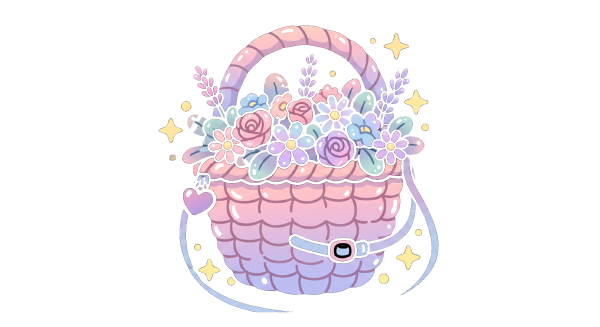
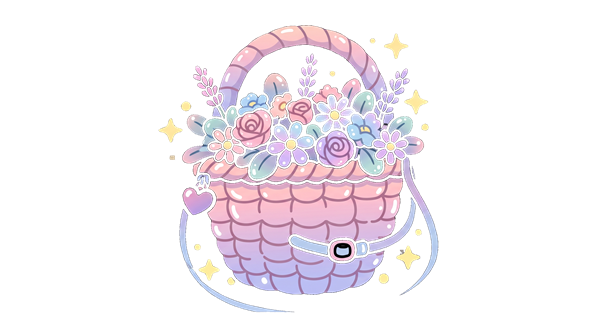
상점 카드 썸네일 통일, 달 조명 빛번짐 정리, 꽃바구니 백 재처리·위치 조정, 시뮬레이터에 기존 아이템 재조정 기능
- 상점 카드: PNG 아이템 65종을 내용물 기준 160px 정사각형 썸네일(lily2_assets/thumbs)로 표시 → 신발 등 위치·크기 균일
- 달빛 사이드테이블: 달 주변 빛 번짐 제거(테이블 상판은 원본 유지)
- 꽃바구니 백: 원본에서 재처리(외곽선 반투명 문제 해결, 잔가지·반짝이 유지), AV_FIT scale 0.82 / ox 37.1 / oy 21.6
- fit_simulator: 기존 아바타 아이템 30종 재조정 목록 추가, 변경분만 내보내기
- lily_tools: ThumbSmart, CombineAlphaAbove, RemoveNeutralPatch, KeepColourfulSmall 추가

diff --git a/fit_simulator.html b/fit_simulator.html
@@ -70,6 +70,7 @@
   <section class="panel">
     <h3 id="listTitle">새 아이템 (체크 = 표시, 클릭 = 선택)</h3>
     <div id="itemList"></div>
+    <div id="existingList"></div>
     <hr style="border:0;border-top:1px solid #eee;margin:10px 0">
     <h3>기존 아이템 참고용 표시</h3>
     <div id="refList"></div>
@@ -118,6 +119,37 @@ const NEW_AVATAR = [
   { id:'av_acc_pompom',        img:'av_acc_pompom.png',        name:'치어 폼폼',       layer:'acc',    emoji:'📣', price:280, desc:'양손에 드는 빨간 치어 폼폼' },
   { id:'av_shoes_flowershoes', img:'av_shoes_flower2.png',     name:'꽃신',            layer:'shoes',  emoji:'🌺', price:330, desc:'한복에 신는 예쁜 꽃신' },
 ];
+// 기존 아바타 아이템 재조정용 (대시보드 현재 값이 기본값)
+const EXISTING_AVATAR = [{"id":"av_hair_bow","img":"av_hair_bow.png","name":"핑크 리본 헤어","emoji":"🎀","layer":"hair","fit":{"scale":0.443,"scaleX":1,"ox":24.8,"oy":-31.3}},
+  {"id":"av_hair_pink","img":"av_hair_band.png","name":"분홍 트윈테일","emoji":"💗","layer":"hair","fit":{"scale":0.803,"scaleX":1.185,"ox":0,"oy":-10.3}},
+  {"id":"av_hair_star","img":"av_hair_star.png","name":"별 핀 헤어","emoji":"⭐","layer":"hair","fit":{"scale":0.694,"scaleX":1,"ox":22.7,"oy":-33.2}},
+  {"id":"av_hair_flower","img":"av_hair_flower.png","name":"꽃 화환 헤어","emoji":"🌸","layer":"hair","fit":{"scale":0.735,"scaleX":1,"ox":-0.2,"oy":-13.59}},
+  {"id":"av_outfit_princess","img":"av_outfit_princess.png","name":"프린세스 드레스","emoji":"👸","layer":"outfit","fit":{"scale":0.953,"scaleX":1,"ox":-0.2,"oy":13.1}},
+  {"id":"av_outfit_rainbow","img":"av_outfit_rainbow.png","name":"무지개 드레스","emoji":"🌈","layer":"outfit","fit":{"scale":1.102,"scaleX":1,"ox":0,"oy":1.8}},
+  {"id":"av_outfit_galaxy","img":"av_outfit_galaxy.png","name":"갤럭시 드레스","emoji":"🌌","layer":"outfit","fit":{"scale":0.9,"scaleX":1.3,"ox":0,"oy":-0.7}},
+  {"id":"av_outfit_angel","img":"av_outfit_angel.png","name":"천사 드레스","emoji":"🤍","layer":"outfit","fit":{"scale":1.0485,"scaleX":1,"ox":0,"oy":1.22}},
+  {"id":"av_outfit_witch","img":"av_outfit_witch.png","name":"마녀 드레스","emoji":"🧙","layer":"outfit","fit":{"scale":0.9,"scaleX":1.04,"ox":0.6,"oy":-0.7}},
+  {"id":"av_outfit_star","img":"av_outfit_star.png","name":"별빛 드레스","emoji":"🌟","layer":"outfit","fit":{"scale":0.9,"scaleX":1,"ox":0,"oy":13.1}},
+  {"id":"av_outfit_rose","img":"av_outfit_rose.png","name":"장미 드레스","emoji":"🌹","layer":"outfit","fit":{"scale":0.9,"scaleX":1.155,"ox":0,"oy":0.2}},
+  {"id":"av_outfit_ballet","img":"av_outfit_ballet.png","name":"화려한 발레복","emoji":"🩰","layer":"outfit","fit":{"scale":1.112,"scaleX":1,"ox":-0.2,"oy":1.2}},
+  {"id":"av_outfit_sporty","img":"av_outfit_sporty.png","name":"화려한 운동복","emoji":"🎽","layer":"outfit","fit":{"scale":1.137,"scaleX":1,"ox":0,"oy":2.2}},
+  {"id":"av_outfit_school1","img":"av_outfit_school1.png","name":"대광초 교복 춘추복","emoji":"🎒","layer":"outfit","fit":{"scale":1.003,"scaleX":1,"ox":0,"oy":0.7}},
+  {"id":"av_outfit_school2","img":"av_outfit_school2.png","name":"대광초 생활복","emoji":"🎒","layer":"outfit","fit":{"scale":0.995,"scaleX":1.05,"ox":0.2,"oy":-0.2}},
+  {"id":"av_acc_tiara","img":"av_acc_tiara.png","name":"골드 티아라","emoji":"👑","layer":"acc","fit":{"scale":0.489,"scaleX":1,"ox":-0.5,"oy":-41.3}},
+  {"id":"av_acc_necklace","img":"av_acc_necklace.png","name":"별 목걸이","emoji":"💫","layer":"acc","fit":{"scale":0.326,"scaleX":1,"ox":0,"oy":-1.7}},
+  {"id":"av_acc_glasses","img":"av_acc_glasses.png","name":"동그란 안경","emoji":"👓","layer":"acc","fit":{"scale":0.56,"scaleX":1,"ox":0.6,"oy":-22.2}},
+  {"id":"av_acc_ribbon","img":"av_acc_ribbon.png","name":"리본 목걸이","emoji":"💝","layer":"acc","fit":{"scale":0.242,"scaleX":1,"ox":0.4,"oy":-0.2}},
+  {"id":"av_shoes_star","img":"av_shoes_star.png","name":"별빛 부츠","emoji":"⭐","layer":"shoes","fit":{"scale":0.602,"scaleX":1,"ox":-0.1,"oy":34.2}},
+  {"id":"av_shoes_rainbow","img":"av_shoes_rainbow.png","name":"무지개 스니커즈","emoji":"🌈","layer":"shoes","fit":{"scale":0.644,"scaleX":1,"ox":-0.1,"oy":33.2}},
+  {"id":"av_shoes_flower","img":"av_shoes_ribbon_extra.png","name":"꽃 샌들","emoji":"🌸","layer":"shoes","fit":{"scale":1,"scaleX":1,"ox":0,"oy":0}},
+  {"id":"av_shoes_rainbow2","img":"av_shoes_rainbow2.png","name":"무지개 샌들","emoji":"🌈","layer":"shoes","fit":{"scale":0.97,"scaleX":1,"ox":0,"oy":2.2}},
+  {"id":"av_shoes_rose","img":"av_shoes_rose.png","name":"장미 구두","emoji":"🌹","layer":"shoes","fit":{"scale":1.012,"scaleX":1,"ox":0,"oy":0.2}},
+  {"id":"av_shoes_star2","img":"av_shoes_star2.png","name":"별무늬 부츠","emoji":"⭐","layer":"shoes","fit":{"scale":1.02,"scaleX":1,"ox":0,"oy":-0.7}},
+  {"id":"av_shoes_blackmaryjane","img":"av_shoes_blackmaryjane.png","name":"검정 메리제인","emoji":"👞","layer":"shoes","fit":{"scale":0.6,"scaleX":1,"ox":0,"oy":34}},
+  {"id":"av_acc_shellpin","img":"av_acc_shellpin.png","name":"조개 핀","emoji":"🐚","layer":"acc","fit":{"scale":1.145,"scaleX":1.165,"ox":-10.4,"oy":3.1}},
+  {"id":"av_acc_witchhat","img":"av_acc_witchhat.png","name":"마녀 모자","emoji":"🎩","layer":"acc","fit":{"scale":0.769,"scaleX":1,"ox":9.6,"oy":-21.3}},
+  {"id":"av_bag_star","img":"av_bag_star.png","name":"별 미니백","emoji":"⭐","layer":"acc","fit":{"scale":0.836,"scaleX":1,"ox":36.7,"oy":23.2}},
+  {"id":"av_bag_flower","img":"av_bag_flower.png","name":"꽃바구니 백","emoji":"🧺","layer":"acc","fit":{"scale":0.4,"scaleX":1,"ox":22,"oy":15}}];
 // 기존 아이템(참고용, 대시보드 값 그대로)
 const REF_AVATAR = [
   { id:'av_outfit_princess', img:'av_outfit_princess.png', name:'프린세스 드레스', layer:'outfit', fit:{scale:0.953, ox:-0.20, oy:13.10} },
@@ -155,6 +187,7 @@ let refVisible = state.refVisible || {};
 
 function defaultsFor(id) {
   if (NEW_FURN.find(f => f.id === id)) { const i = NEW_FURN.findIndex(f => f.id === id); const f = NEW_FURN[i]; return { w: 110, zone: f.zone, x: 4 + (i % 5) * 19, y: f.zone === 'wall' ? 6 + Math.floor(i / 5) * 14 : 52 + Math.floor(i / 5) * 18 }; }
+  const ex = EXISTING_AVATAR.find(e => e.id === id); if (ex) return { ...ex.fit };
   return { scale: 1, scaleX: 1, ox: 0, oy: 0 };
 }
 function fitOf(id) { if (!state.fit[id]) state.fit[id] = defaultsFor(id); return state.fit[id]; }
@@ -181,12 +214,20 @@ function renderList() {
       <img src="${ASSETS}${it.img || it.file}" alt="">
       <div class="nm">${it.emoji || ''} ${it.name}<small>${it.id}${it.layer ? ' · ' + it.layer : ''}</small></div>
     </div>`).join('');
+  const exBox = document.getElementById('existingList');
+  exBox.innerHTML = tab !== 'avatar' ? '' : '<h3 style="margin-top:12px">기존 아바타 아이템 재조정 (클릭=선택·표시)</h3>' + EXISTING_AVATAR.map(it => `
+    <div class="item-row ${selected === it.id ? 'selected' : ''}" onclick="selectItem('${it.id}')">
+      <input type="checkbox" ${visible[it.id] ? 'checked' : ''} onclick="event.stopPropagation();toggleVisible('${it.id}', this.checked)">
+      <img src="${ASSETS}${it.img}" alt="">
+      <div class="nm">${it.emoji} ${it.name}<small>${it.id} · ${it.layer}${JSON.stringify(fitOf(it.id)) !== JSON.stringify(it.fit) ? ' · <b style=color:#e0407a>수정됨</b>' : ''}</small></div>
+    </div>`).join('');
   document.getElementById('refList').innerHTML = refs.map(it => `
     <label class="ref-toggle"><input type="checkbox" ${refVisible[it.id] ? 'checked' : ''} onchange="refVisible['${it.id}']=this.checked;renderAll()"> ${it.name}</label>`).join('');
 }
 function exclusive(id) {
-  const it = NEW_AVATAR.find(n => n.id === id); if (!it || !['outfit','hair'].includes(it.layer)) return;
-  NEW_AVATAR.forEach(n => { if (n.id !== id && n.layer === it.layer) visible[n.id] = false; });
+  const all = [...NEW_AVATAR, ...EXISTING_AVATAR];
+  const it = all.find(n => n.id === id); if (!it || !['outfit','hair','shoes'].includes(it.layer)) return;
+  all.forEach(n => { if (n.id !== id && n.layer === it.layer) visible[n.id] = false; });
 }
 function toggleVisible(id, on) { visible[id] = on; if (on) exclusive(id); renderAll(); }
 function selectItem(id) { selected = id; visible[id] = true; exclusive(id); renderAll(); }
@@ -202,6 +243,7 @@ function renderStage() {
     let layers = [];
     REF_AVATAR.forEach(r => { if (refVisible[r.id]) layers.push({ id: r.id, img: r.img, layer: r.layer, fit: r.fit, ref: true }); });
     NEW_AVATAR.forEach(n => { if (visible[n.id] !== false) layers.push({ id: n.id, img: n.img, layer: n.layer, fit: fitOf(n.id), ref: false }); });
+    EXISTING_AVATAR.forEach(n => { if (visible[n.id]) layers.push({ id: n.id, img: n.img, layer: n.layer, fit: fitOf(n.id), ref: false }); });
     layers.sort((a, b) => LAYER_ORDER[a.layer] - LAYER_ORDER[b.layer]);
     st.innerHTML = `<img src="${ASSETS}lily_final.png" alt="">` +
       layers.map(l => `<img src="${ASSETS}${l.img}" class="${selected === l.id ? 'sel-outline' : ''}" style="${avStyle(l.fit)}${l.ref ? 'opacity:.85;' : ''}" alt="">`).join('');
@@ -229,7 +271,7 @@ function ctrlRow(key, label, min, max, step) {
 function renderCtrls() {
   const title = document.getElementById('ctrlTitle'); const box = document.getElementById('ctrls');
   if (!selected) { title.textContent = '선택된 아이템 없음'; box.innerHTML = '<p class="muted">왼쪽 목록에서 아이템을 클릭하세요.</p>'; return; }
-  const item = [...NEW_AVATAR, ...NEW_FURN].find(i => i.id === selected);
+  const item = [...NEW_AVATAR, ...NEW_FURN, ...EXISTING_AVATAR].find(i => i.id === selected);
   title.textContent = `${item.emoji} ${item.name}`;
   let html = '';
   if (tab === 'avatar') {
@@ -250,7 +292,7 @@ function renderCtrls() {
     <div class="price-row">설명 <input class="wide" value="${metaOf(item).desc}" onchange="setMeta('desc', this.value)"></div>`;
   box.innerHTML = html;
 }
-function metaOf(item) { state.meta = state.meta || {}; const m = state.meta[item.id] || {}; return { emoji: m.emoji || item.emoji, price: m.price || item.price, name: m.name || item.name, desc: m.desc || item.desc }; }
+function metaOf(item) { state.meta = state.meta || {}; const m = state.meta[item.id] || {}; return { emoji: m.emoji || item.emoji || '', price: m.price || item.price || 0, name: m.name || item.name, desc: m.desc || item.desc || '' }; }
 function setMeta(k, v) { state.meta = state.meta || {}; state.meta[selected] = state.meta[selected] || {}; state.meta[selected][k] = k === 'price' ? Number(v) : v; renderAll(); }
 function setVal(key, v) {
   const f = fitOf(selected);
@@ -325,6 +367,8 @@ function renderExport() {
   const lines = [];
   lines.push('// ===== AV_FIT 추가 =====');
   NEW_AVATAR.forEach(n => { const f = fitOf(n.id); lines.push(`  ${n.id}: { img:'${n.img}', scale:${f.scale.toFixed(3)}, scaleX:${(f.scaleX ?? 1).toFixed(3)}, ox:${f.ox.toFixed(2)}, oy:${f.oy.toFixed(2)} },`); });
+  const changed = EXISTING_AVATAR.filter(n => JSON.stringify(fitOf(n.id)) !== JSON.stringify(n.fit));
+  if (changed.length) { lines.push('// ===== AV_FIT 수정(기존 아이템) ====='); changed.forEach(n => { const f = fitOf(n.id); lines.push(`  ${n.id}: { img:'${n.img}', scale:${f.scale.toFixed(3)}, scaleX:${(f.scaleX ?? 1).toFixed(3)}, ox:${f.ox.toFixed(2)}, oy:${f.oy.toFixed(2)} },`); }); }
   lines.push('// ===== PNG_FURNITURE 추가 =====');
   NEW_FURN.forEach(n => { const f = fitOf(n.id); lines.push(`  ${n.id}: { file:'${n.file}', w:${f.w} },  // zone: ${f.zone}`); });
   lines.push('// ===== SHOP_ITEMS 추가 =====');

diff --git a/joy.html b/joy.html
@@ -1165,7 +1165,7 @@ const AV_FIT = {
   av_acc_shellpin:   { img:'av_acc_shellpin.png',   scale:1.145, scaleX:1.165, ox:-10.40, oy:3.10 },
   av_acc_witchhat:   { img:'av_acc_witchhat.png',   scale:0.769, scaleX:1.000, ox:9.60, oy:-21.30 },
   av_bag_star:   { img:'av_bag_star.png',   scale:0.836, ox:36.70, oy:23.20 },
-  av_bag_flower: { img:'av_bag_flower.png', scale:0.4,   ox:22,    oy:15 },
+  av_bag_flower: { img:'av_bag_flower.png', scale:0.820, scaleX:1.000, ox:37.10, oy:21.60 },
   av_outfit_cheer:      { img:'av_outfit_cheer.png',      scale:0.780, scaleX:1.000, ox:-0.50, oy:9.60 },
   av_outfit_hanbok:     { img:'av_outfit_hanbok.png',     scale:0.930, scaleX:1.000, ox:0.00, oy:-0.20 },
   av_hair_hanbokband:   { img:'av_hair_hanbokband.png',   scale:0.690, scaleX:1.000, ox:0.20, oy:-20.70 },
@@ -2206,6 +2206,13 @@ function renderPointsAndRoom() {
   renderRoom();
 }
 
+/* ── 상점 카드 썸네일: PNG 아이템은 내용물만 잘라 정사각형 가운데 정렬한 thumbs/ 이미지 사용 ── */
+const SHOP_THUMB_IDS = new Set(["av_hair_bow","av_hair_pink","av_hair_star","av_hair_flower","av_outfit_princess","av_outfit_rainbow","av_outfit_galaxy","av_outfit_angel","av_outfit_witch","av_outfit_star","av_outfit_rose","av_outfit_ballet","av_outfit_sporty","av_outfit_school1","av_outfit_school2","av_acc_tiara","av_acc_necklace","av_acc_glasses","av_acc_ribbon","av_shoes_star","av_shoes_rainbow","av_shoes_flower","av_shoes_rainbow2","av_shoes_rose","av_shoes_star2","av_shoes_blackmaryjane","av_acc_shellpin","av_acc_witchhat","av_bag_star","av_bag_flower","av_outfit_cheer","av_outfit_hanbok","av_hair_hanbokband","av_hair_redribbon","av_acc_pompom","av_shoes_flowershoes","furn_canopybed","furn_clock","furn_pastelpiano","furn_teatable","furn_flowerstand","furn_closet","furn_springbookshelf","furn_springbox","furn_springtable","furn_starbed","furn_stargarland","furn_starsidetable","furn_stardrawer","furn_starposter","furn_wallshelf","pet_cat","pet_rabbit","pet_hamster","pet_butterfly","pet_fox","pet_unicorn","pet_frog","pet_dragon","pet_penguin","food_cake","food_cupcake","food_macaron","food_parfait","food_icecream"]);
+function shopIcon(item) {
+  if (SHOP_THUMB_IDS.has(item.id)) return `<img src="${AV_ASSETS}thumbs/${item.id}.png" style="width:80px;height:80px;object-fit:contain;" alt="">`;
+  return customItemIcon(item.id) || item.emoji;
+}
+
 /* ── SHOP RENDER ── */
 function renderShop() {
   // Tabs
@@ -2238,7 +2245,7 @@ function renderShop() {
       }
     }
     return `<div class="shop-item-card ${owned ? 'owned' : ''} ${!owned && !canAfford ? 'unaffordable' : ''}">
-      <div class="shop-item-emoji">${customItemIcon(item.id) || item.emoji}</div>
+      <div class="shop-item-emoji">${shopIcon(item)}</div>
       <div class="shop-item-name">${item.name}</div>
       <div class="shop-item-desc">${item.desc}</div>
       <div class="shop-item-price">💰 ${item.price} pt</div>

diff --git a/lily.html b/lily.html
@@ -1165,7 +1165,7 @@ const AV_FIT = {
   av_acc_shellpin:   { img:'av_acc_shellpin.png',   scale:1.145, scaleX:1.165, ox:-10.40, oy:3.10 },
   av_acc_witchhat:   { img:'av_acc_witchhat.png',   scale:0.769, scaleX:1.000, ox:9.60, oy:-21.30 },
   av_bag_star:   { img:'av_bag_star.png',   scale:0.836, ox:36.70, oy:23.20 },
-  av_bag_flower: { img:'av_bag_flower.png', scale:0.4,   ox:22,    oy:15 },
+  av_bag_flower: { img:'av_bag_flower.png', scale:0.820, scaleX:1.000, ox:37.10, oy:21.60 },
   av_outfit_cheer:      { img:'av_outfit_cheer.png',      scale:0.780, scaleX:1.000, ox:-0.50, oy:9.60 },
   av_outfit_hanbok:     { img:'av_outfit_hanbok.png',     scale:0.930, scaleX:1.000, ox:0.00, oy:-0.20 },
   av_hair_hanbokband:   { img:'av_hair_hanbokband.png',   scale:0.690, scaleX:1.000, ox:0.20, oy:-20.70 },
@@ -2206,6 +2206,13 @@ function renderPointsAndRoom() {
   renderRoom();
 }
 
+/* ── 상점 카드 썸네일: PNG 아이템은 내용물만 잘라 정사각형 가운데 정렬한 thumbs/ 이미지 사용 ── */
+const SHOP_THUMB_IDS = new Set(["av_hair_bow","av_hair_pink","av_hair_star","av_hair_flower","av_outfit_princess","av_outfit_rainbow","av_outfit_galaxy","av_outfit_angel","av_outfit_witch","av_outfit_star","av_outfit_rose","av_outfit_ballet","av_outfit_sporty","av_outfit_school1","av_outfit_school2","av_acc_tiara","av_acc_necklace","av_acc_glasses","av_acc_ribbon","av_shoes_star","av_shoes_rainbow","av_shoes_flower","av_shoes_rainbow2","av_shoes_rose","av_shoes_star2","av_shoes_blackmaryjane","av_acc_shellpin","av_acc_witchhat","av_bag_star","av_bag_flower","av_outfit_cheer","av_outfit_hanbok","av_hair_hanbokband","av_hair_redribbon","av_acc_pompom","av_shoes_flowershoes","furn_canopybed","furn_clock","furn_pastelpiano","furn_teatable","furn_flowerstand","furn_closet","furn_springbookshelf","furn_springbox","furn_springtable","furn_starbed","furn_stargarland","furn_starsidetable","furn_stardrawer","furn_starposter","furn_wallshelf","pet_cat","pet_rabbit","pet_hamster","pet_butterfly","pet_fox","pet_unicorn","pet_frog","pet_dragon","pet_penguin","food_cake","food_cupcake","food_macaron","food_parfait","food_icecream"]);
+function shopIcon(item) {
+  if (SHOP_THUMB_IDS.has(item.id)) return `<img src="${AV_ASSETS}thumbs/${item.id}.png" style="width:80px;height:80px;object-fit:contain;" alt="">`;
+  return customItemIcon(item.id) || item.emoji;
+}
+
 /* ── SHOP RENDER ── */
 function renderShop() {
   // Tabs
@@ -2238,7 +2245,7 @@ function renderShop() {
       }
     }
     return `<div class="shop-item-card ${owned ? 'owned' : ''} ${!owned && !canAfford ? 'unaffordable' : ''}">
-      <div class="shop-item-emoji">${customItemIcon(item.id) || item.emoji}</div>
+      <div class="shop-item-emoji">${shopIcon(item)}</div>
       <div class="shop-item-name">${item.name}</div>
       <div class="shop-item-desc">${item.desc}</div>
       <div class="shop-item-price">💰 ${item.price} pt</div>

diff --git a/lily2.html b/lily2.html
@@ -1165,7 +1165,7 @@ const AV_FIT = {
   av_acc_shellpin:   { img:'av_acc_shellpin.png',   scale:1.145, scaleX:1.165, ox:-10.40, oy:3.10 },
   av_acc_witchhat:   { img:'av_acc_witchhat.png',   scale:0.769, scaleX:1.000, ox:9.60, oy:-21.30 },
   av_bag_star:   { img:'av_bag_star.png',   scale:0.836, ox:36.70, oy:23.20 },
-  av_bag_flower: { img:'av_bag_flower.png', scale:0.4,   ox:22,    oy:15 },
+  av_bag_flower: { img:'av_bag_flower.png', scale:0.820, scaleX:1.000, ox:37.10, oy:21.60 },
   av_outfit_cheer:      { img:'av_outfit_cheer.png',      scale:0.780, scaleX:1.000, ox:-0.50, oy:9.60 },
   av_outfit_hanbok:     { img:'av_outfit_hanbok.png',     scale:0.930, scaleX:1.000, ox:0.00, oy:-0.20 },
   av_hair_hanbokband:   { img:'av_hair_hanbokband.png',   scale:0.690, scaleX:1.000, ox:0.20, oy:-20.70 },
@@ -2206,6 +2206,13 @@ function renderPointsAndRoom() {
   renderRoom();
 }
 
+/* ── 상점 카드 썸네일: PNG 아이템은 내용물만 잘라 정사각형 가운데 정렬한 thumbs/ 이미지 사용 ── */
+const SHOP_THUMB_IDS = new Set(["av_hair_bow","av_hair_pink","av_hair_star","av_hair_flower","av_outfit_princess","av_outfit_rainbow","av_outfit_galaxy","av_outfit_angel","av_outfit_witch","av_outfit_star","av_outfit_rose","av_outfit_ballet","av_outfit_sporty","av_outfit_school1","av_outfit_school2","av_acc_tiara","av_acc_necklace","av_acc_glasses","av_acc_ribbon","av_shoes_star","av_shoes_rainbow","av_shoes_flower","av_shoes_rainbow2","av_shoes_rose","av_shoes_star2","av_shoes_blackmaryjane","av_acc_shellpin","av_acc_witchhat","av_bag_star","av_bag_flower","av_outfit_cheer","av_outfit_hanbok","av_hair_hanbokband","av_hair_redribbon","av_acc_pompom","av_shoes_flowershoes","furn_canopybed","furn_clock","furn_pastelpiano","furn_teatable","furn_flowerstand","furn_closet","furn_springbookshelf","furn_springbox","furn_springtable","furn_starbed","furn_stargarland","furn_starsidetable","furn_stardrawer","furn_starposter","furn_wallshelf","pet_cat","pet_rabbit","pet_hamster","pet_butterfly","pet_fox","pet_unicorn","pet_frog","pet_dragon","pet_penguin","food_cake","food_cupcake","food_macaron","food_parfait","food_icecream"]);
+function shopIcon(item) {
+  if (SHOP_THUMB_IDS.has(item.id)) return `<img src="${AV_ASSETS}thumbs/${item.id}.png" style="width:80px;height:80px;object-fit:contain;" alt="">`;
+  return customItemIcon(item.id) || item.emoji;
+}
+
 /* ── SHOP RENDER ── */
 function renderShop() {
   // Tabs
@@ -2238,7 +2245,7 @@ function renderShop() {
       }
     }
     return `<div class="shop-item-card ${owned ? 'owned' : ''} ${!owned && !canAfford ? 'unaffordable' : ''}">
-      <div class="shop-item-emoji">${customItemIcon(item.id) || item.emoji}</div>
+      <div class="shop-item-emoji">${shopIcon(item)}</div>
       <div class="shop-item-name">${item.name}</div>
       <div class="shop-item-desc">${item.desc}</div>
       <div class="shop-item-price">💰 ${item.price} pt</div>

diff --git a/lily_tools/ImgTool.cs b/lily_tools/ImgTool.cs
@@ -7,6 +7,9 @@ using System.Runtime.InteropServices;
 
 public static class ImgTool
 {
+    // When true, small components are dropped only if they are grey-ish (checker remnants); colourful bits are kept.
+    public static bool KeepColourfulSmall = false;
+
     // Load into premultiplied-free ARGB byte array (B,G,R,A)
     static byte[] GetBytes(Bitmap bmp, out int stride)
     {
@@ -152,11 +155,24 @@ public static class ImgTool
                 }
             }
             int largest = 0; foreach (var a in areas) if (a > largest) largest = a;
+            // per-component mean chroma (to keep small but colourful pieces such as sparkles / sprig leaves)
+            var chromaSum = new long[nc + 1];
+            for (int s = 0; s < w * h; s++)
+            {
+                if (isBg[s]) continue;
+                int i = (s / w) * stride + (s % w) * 4; int b = p[i], g = p[i + 1], r = p[i + 2];
+                chromaSum[comp[s]] += Math.Max(r, Math.Max(g, b)) - Math.Min(r, Math.Min(g, b));
+            }
             int dropped = 0;
             for (int s = 0; s < w * h; s++)
             {
                 if (isBg[s]) continue;
-                if (areas[comp[s]] < largest * minCompFrac) { isBg[s] = true; dropped++; }
+                int k = comp[s];
+                if (areas[k] < largest * minCompFrac)
+                {
+                    double meanChroma = (double)chromaSum[k] / areas[k];
+                    if (!KeepColourfulSmall || meanChroma <= 16 || areas[k] < largest * 0.0003) { isBg[s] = true; dropped++; }
+                }
             }
 
             // apply alpha + soften edge: pixels adjacent to bg get partial alpha based on palette distance
@@ -273,6 +289,130 @@ public static class ImgTool
             }
             using (var outBmp = FromBytes(p, w, h, stride)) outBmp.Save(dst, ImageFormat.Png);
             return string.Format("gray px {0}, comps {1}, patch bbox x{2}-{3} y{4}-{5} (area {6}), cleared {7}px", count, nc, x0, x1, y0, y1, areas[best], cleared);
+        }
+    }
+
+    // Combine: above yCut use alpha from maskPng (aggressively cleaned), below keep origPng. Both must be same size.
+    // Then crop to content (+padPct) and downscale to maxSide.
+    public static string CombineAlphaAbove(string origPng, string maskPng, string dst, int yCut, int padPct, int maxSide) { return CombineAlphaAbove(origPng, maskPng, dst, yCut, padPct, maxSide, 0); }
+    // protectBlueMin > 0: never clear a pixel whose original colour is blue-ish (B - max(R,G) >= protectBlueMin), e.g. the table.
+    public static string CombineAlphaAbove(string origPng, string maskPng, string dst, int yCut, int padPct, int maxSide, int protectBlueMin)
+    {
+        using (var o = new Bitmap(origPng)) using (var m = new Bitmap(maskPng))
+        {
+            if (o.Width != m.Width || o.Height != m.Height) return "size mismatch " + o.Width + "x" + o.Height + " vs " + m.Width + "x" + m.Height;
+            int so, sm; var po = GetBytes(o, out so); var pm = GetBytes(m, out sm);
+            int w = o.Width, h = o.Height; int changed = 0;
+            for (int y = 0; y < Math.Min(yCut, h); y++) for (int x = 0; x < w; x++)
+            {
+                int io = y * so + x * 4, im = y * sm + x * 4;
+                if (protectBlueMin > 0) { int b = po[io], g = po[io + 1], r = po[io + 2]; if (b - Math.Max(r, g) >= protectBlueMin) continue; }
+                if (po[io + 3] != 0 && pm[im + 3] == 0) { po[io + 3] = 0; changed++; }
+                else if (pm[im + 3] < po[io + 3]) po[io + 3] = pm[im + 3];
+            }
+            int minX = w, maxX = -1, minY = h, maxY = -1;
+            for (int y = 0; y < h; y++) for (int x = 0; x < w; x++)
+                if (po[y * so + x * 4 + 3] > 20) { if (x < minX) minX = x; if (x > maxX) maxX = x; if (y < minY) minY = y; if (y > maxY) maxY = y; }
+            int padX = (maxX - minX + 1) * padPct / 100, padY = (maxY - minY + 1) * padPct / 100;
+            var srcRect = new Rectangle(Math.Max(0, minX - padX), Math.Max(0, minY - padY), 0, 0);
+            srcRect.Width = Math.Min(w - 1, maxX + padX) - srcRect.X + 1; srcRect.Height = Math.Min(h - 1, maxY + padY) - srcRect.Y + 1;
+            double sc = Math.Min(1.0, (double)maxSide / Math.Max(srcRect.Width, srcRect.Height));
+            int tw = Math.Max(1, (int)Math.Round(srcRect.Width * sc)), th = Math.Max(1, (int)Math.Round(srcRect.Height * sc));
+            using (var full = FromBytes(po, w, h, so))
+            using (var outBmp = new Bitmap(tw, th, PixelFormat.Format32bppArgb))
+            using (var g = Graphics.FromImage(outBmp))
+            {
+                g.Clear(Color.Transparent); g.InterpolationMode = InterpolationMode.HighQualityBicubic; g.PixelOffsetMode = PixelOffsetMode.HighQuality; g.CompositingMode = CompositingMode.SourceCopy;
+                using (var ia = new ImageAttributes()) { ia.SetWrapMode(WrapMode.TileFlipXY);
+                    g.DrawImage(full, new Rectangle(0, 0, tw, th), srcRect.X, srcRect.Y, srcRect.Width, srcRect.Height, GraphicsUnit.Pixel, ia); }
+                outBmp.Save(dst, ImageFormat.Png);
+            }
+            return string.Format("cleared {0}px above y={1}; out {2}x{3}", changed, yCut, tw, th);
+        }
+    }
+
+    // Thumbnail using bbox of significant connected components only (ignores stray specks).
+    // Components with area < minFrac * largest are ignored when measuring the box (pairs like shoes are kept).
+    public static string ThumbSmart(string src, string dst, int size, int padPct, int alphaMin, double minFrac)
+    {
+        using (var bmp = new Bitmap(src))
+        {
+            int stride; var p = GetBytes(bmp, out stride);
+            int w = bmp.Width, h = bmp.Height;
+            var comp = new int[w * h]; int nc = 0; var areas = new List<int> { 0 }; var boxes = new List<int[]> { null };
+            int[] dx = { 1, -1, 0, 0, 1, 1, -1, -1 }, dy = { 0, 0, 1, -1, 1, -1, 1, -1 };
+            for (int s = 0; s < w * h; s++)
+            {
+                if (comp[s] != 0 || p[(s / w) * stride + (s % w) * 4 + 3] <= alphaMin) continue;
+                nc++; areas.Add(0); var bx = new[] { w, h, -1, -1 }; boxes.Add(bx);
+                var st = new Stack<int>(); st.Push(s); comp[s] = nc;
+                while (st.Count > 0)
+                {
+                    int idx = st.Pop(); areas[nc]++; int cx = idx % w, cy = idx / w;
+                    if (cx < bx[0]) bx[0] = cx; if (cy < bx[1]) bx[1] = cy; if (cx > bx[2]) bx[2] = cx; if (cy > bx[3]) bx[3] = cy;
+                    for (int d = 0; d < 8; d++)
+                    {
+                        int nx = cx + dx[d], ny = cy + dy[d];
+                        if (nx < 0 || ny < 0 || nx >= w || ny >= h) continue;
+                        int ni = ny * w + nx;
+                        if (comp[ni] != 0 || p[ny * stride + nx * 4 + 3] <= alphaMin) continue;
+                        comp[ni] = nc; st.Push(ni);
+                    }
+                }
+            }
+            if (nc == 0) return "EMPTY";
+            int largest = 0; for (int k = 1; k <= nc; k++) if (areas[k] > largest) largest = areas[k];
+            int minX = w, maxX = -1, minY = h, maxY = -1;
+            for (int k = 1; k <= nc; k++)
+            {
+                if (areas[k] < largest * minFrac) continue;
+                var bx = boxes[k]; if (bx[0] < minX) minX = bx[0]; if (bx[1] < minY) minY = bx[1]; if (bx[2] > maxX) maxX = bx[2]; if (bx[3] > maxY) maxY = bx[3];
+            }
+            var srcRect = new Rectangle(minX, minY, maxX - minX + 1, maxY - minY + 1);
+            int inner = size - size * padPct / 50;
+            double sc = Math.Min((double)inner / srcRect.Width, (double)inner / srcRect.Height);
+            int tw = Math.Max(1, (int)Math.Round(srcRect.Width * sc)), th = Math.Max(1, (int)Math.Round(srcRect.Height * sc));
+            using (var outBmp = new Bitmap(size, size, PixelFormat.Format32bppArgb))
+            using (var g = Graphics.FromImage(outBmp))
+            {
+                g.Clear(Color.Transparent); g.InterpolationMode = InterpolationMode.HighQualityBicubic; g.PixelOffsetMode = PixelOffsetMode.HighQuality; g.CompositingMode = CompositingMode.SourceOver;
+                using (var ia = new ImageAttributes()) { ia.SetWrapMode(WrapMode.TileFlipXY);
+                    g.DrawImage(bmp, new Rectangle((size - tw) / 2, (size - th) / 2, tw, th), srcRect.X, srcRect.Y, srcRect.Width, srcRect.Height, GraphicsUnit.Pixel, ia); }
+                outBmp.Save(dst, ImageFormat.Png);
+            }
+            return string.Format("comps {0}, bbox {1}x{2} -> {3}x{4}", nc, srcRect.Width, srcRect.Height, tw, th);
+        }
+    }
+
+    // Shop thumbnail: crop to opaque content (+pad%), fit into a square transparent canvas, centered.
+    public static string Thumb(string src, string dst, int size, int padPct) { return Thumb(src, dst, size, padPct, 20); }
+    // alphaMin: ignore faint noise pixels when measuring the content box (e.g. 90 for images with stray semi-transparent dots)
+    public static string Thumb(string src, string dst, int size, int padPct, int alphaMin)
+    {
+        using (var bmp = new Bitmap(src))
+        {
+            int stride; var p = GetBytes(bmp, out stride);
+            int w = bmp.Width, h = bmp.Height;
+            int minX = w, maxX = -1, minY = h, maxY = -1;
+            for (int y = 0; y < h; y++) for (int x = 0; x < w; x++)
+                if (p[y * stride + x * 4 + 3] > alphaMin) { if (x < minX) minX = x; if (x > maxX) maxX = x; if (y < minY) minY = y; if (y > maxY) maxY = y; }
+            if (maxX < 0) return "EMPTY";
+            var srcRect = new Rectangle(minX, minY, maxX - minX + 1, maxY - minY + 1);
+            int inner = size - size * padPct / 50; // pad on both sides
+            double sc = Math.Min((double)inner / srcRect.Width, (double)inner / srcRect.Height);
+            int tw = Math.Max(1, (int)Math.Round(srcRect.Width * sc)), th = Math.Max(1, (int)Math.Round(srcRect.Height * sc));
+            using (var outBmp = new Bitmap(size, size, PixelFormat.Format32bppArgb))
+            using (var g = Graphics.FromImage(outBmp))
+            {
+                g.Clear(Color.Transparent);
+                g.InterpolationMode = InterpolationMode.HighQualityBicubic;
+                g.PixelOffsetMode = PixelOffsetMode.HighQuality;
+                g.CompositingMode = CompositingMode.SourceOver;
+                using (var ia = new ImageAttributes()) { ia.SetWrapMode(WrapMode.TileFlipXY);
+                    g.DrawImage(bmp, new Rectangle((size - tw) / 2, (size - th) / 2, tw, th), srcRect.X, srcRect.Y, srcRect.Width, srcRect.Height, GraphicsUnit.Pixel, ia); }
+                outBmp.Save(dst, ImageFormat.Png);
+            }
+            return string.Format("bbox {0}x{1} -> {2}x{3} in {4}px", srcRect.Width, srcRect.Height, tw, th, size);
         }
     }
 
